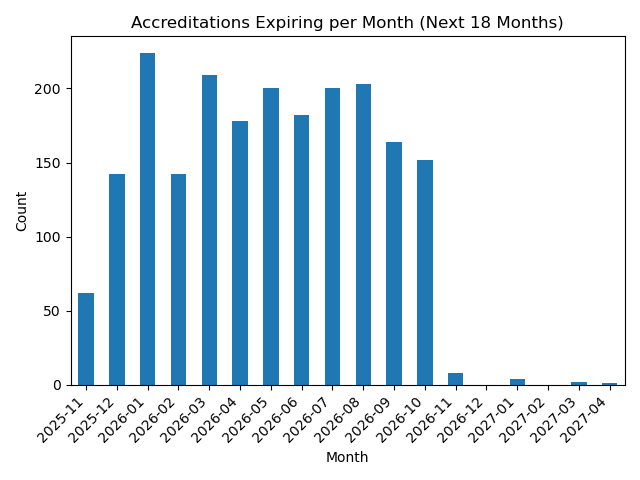
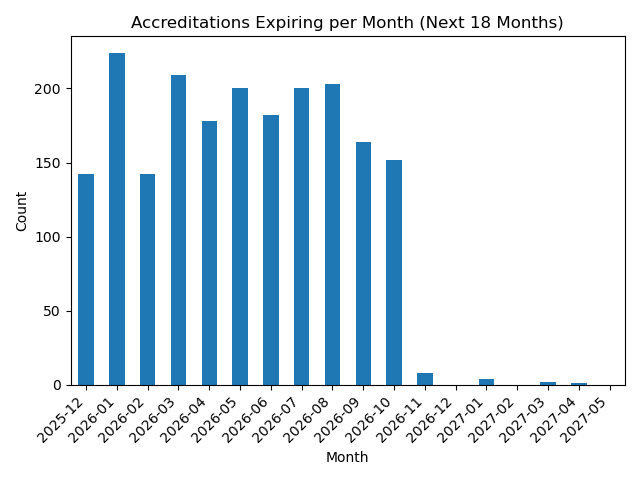
Updated ROI and Readme

diff --git a/ROI.py b/ROI.py
@@ -1,0 +1,129 @@
+# Simple ROI Model (Kallidus LMS) - Appendix ROI-1
+
+# 1) COSTS (from business report)
+# -------------------
+year1_cost = 127493.35          # Total Year 1 cost (software + project staff)
+year2_cost = 24999.35           # Ongoing licence cost
+year3_cost = 24999.35           # Ongoing licence cost
+
+# how Year 1 was built
+sandbox_site = 5500.00
+additional_licences = 1978.00
+kallidus_licences = 24999.35
+project_staff = 95016.00
+# (These add up to the Year 1 cost)
+check_year1 = sandbox_site + additional_licences + kallidus_licences + project_staff
+
+# -------------------
+# 2) SAVINGS (from business report)
+# -------------------
+admin_savings_full = 42000.00    # 2 admin posts removed (full saving)
+learning_pool_savings = 10000.00 # Learning Pool contract ended
+
+# Conservative savings in Year 1
+# shows a conservative Year 1 saving figure of £26,000
+year1_savings_conservative = 26000.00
+
+# Full savings for Years 2 and 3
+year2_savings_full = admin_savings_full + learning_pool_savings  # 52000
+year3_savings_full = admin_savings_full + learning_pool_savings  # 52000
+
+# -------------------
+# 3) CHOOSE SAVINGS SCENARIO
+# -------------------
+use_conservative_year1 = True
+
+if use_conservative_year1:
+    year1_savings = year1_savings_conservative
+else:
+    year1_savings = admin_savings_full + learning_pool_savings  # 52000
+
+year2_savings = year2_savings_full
+year3_savings = year3_savings_full
+
+# -------------------
+# 4) NET IMPACT PER YEAR (Savings - Costs)
+# -------------------
+year1_net = year1_savings - year1_cost
+year2_net = year2_savings - year2_cost
+year3_net = year3_savings - year3_cost
+
+# -------------------
+# 5) CUMULATIVE CASHFLOW (to find break-even)
+# -------------------
+cumulative = 0.0
+cumulative_list = []
+
+for net in [year1_net, year2_net, year3_net]:
+    cumulative += net
+    cumulative_list.append(cumulative)
+
+# -------------------
+# 6) SIMPLE PAYBACK CALCULATION
+# -------------------
+# If cumulative becomes positive, estimate when it breaks even (roughly)
+payback_text = "Not achieved within 3 years"
+if cumulative_list[0] >= 0:
+    payback_text = "Break-even achieved within Year 1"
+elif cumulative_list[1] >= 0:
+    # Break-even occurs during Year 2
+    amount_left_after_year1 = abs(cumulative_list[0])
+    payback_fraction_year2 = amount_left_after_year1 / year2_net
+    payback_text = f"Break-even achieved in Year 2 after ~{payback_fraction_year2:.2f} of the year"
+elif cumulative_list[2] >= 0:
+    # Break-even occurs during Year 3
+    amount_left_after_year2 = abs(cumulative_list[1])
+    payback_fraction_year3 = amount_left_after_year2 / year3_net
+    payback_text = f"Break-even achieved in Year 3 after ~{payback_fraction_year3:.2f} of the year"
+
+# -------------------
+# 7) OPTIONAL: 5-YEAR NPV @ 3.5% (simple)
+# -------------------
+discount_rate = 0.035
+
+# Extend years 4 and 5 assuming ongoing costs and ongoing savings continue
+year4_cost = year2_cost
+year5_cost = year2_cost
+year4_savings = year2_savings
+year5_savings = year2_savings
+
+cashflows_5yr = [
+    year1_savings - year1_cost,
+    year2_savings - year2_cost,
+    year3_savings - year3_cost,
+    year4_savings - year4_cost,
+    year5_savings - year5_cost
+]
+
+npv = 0.0
+for year_number, cashflow in enumerate(cashflows_5yr, start=1):
+    npv += cashflow / ((1 + discount_rate) ** year_number)
+
+# -------------------
+# 8) PRINT RESULTS (simple summary)
+# -------------------
+print("---- SIMPLE ROI SUMMARY (KALLIDUS) ----")
+print(f"Year 1 cost check (components): £{check_year1:,.2f} (should match £{year1_cost:,.2f})")
+print()
+
+print("Scenario:")
+print(" - Conservative Year 1 savings used?" , use_conservative_year1)
+print()
+
+print("Net impact (Savings - Costs):")
+print(f" Year 1: £{year1_net:,.2f}")
+print(f" Year 2: £{year2_net:,.2f}")
+print(f" Year 3: £{year3_net:,.2f}")
+print()
+
+print("Cumulative net impact:")
+print(f" End of Year 1: £{cumulative_list[0]:,.2f}")
+print(f" End of Year 2: £{cumulative_list[1]:,.2f}")
+print(f" End of Year 3: £{cumulative_list[2]:,.2f}")
+print()
+
+print("Payback / Break-even:")
+print(" ", payback_text)
+print()
+
+print(f"5-Year NPV @ {discount_rate*100:.1f}%: £{npv:,.2f}")

diff --git a/README.md b/README.md
@@ -1,0 +1,80 @@
+README — Accreditation Expiry, Risk Analysis and ROI Modelling
+Overview
+I created this set of Python scripts to support data-driven decision making for the implementation of the Kallidus Learning Management System (LMS). The purpose of this work is to understand training compliance risk, future accreditation expiry trends, and the financial return on investment (ROI) associated with moving to a centralised, automated LMS.
+The analysis focuses on accreditation expiry data (including PPST and First Aid), identifies which skills present the greatest operational risk, and quantifies the financial benefits of the system using a simple and transparent ROI model. All scripts are intentionally written at a clear, low-complexity level to ensure transparency and auditability.
+
+Files in this :
+DT603.py
+This is the main analysis script. It:
+
+- Loads accreditation data from data (6).xlsx
+- Cleans and validates expiry dates
+- Projects accreditation expiries over the next 18 months
+- Produces monthly expiry counts
+- Breaks expiry data down by accreditation title
+- Identifies PPST-related accreditations
+- Generates visual outputs (charts)
+- Produces a simple linear trend forecast beyond known expiry dates
+  regression.py
+  This script performs a simple linear regression analysis on monthly expiry data to identify which accreditation is increasing fastest over time. It:
+- Loads Monthly_expiring_by_title.csv
+- Runs a separate regression for each accreditation
+- Calculates slope, intercept and R² values
+- Ranks accreditations by risk
+- Identifies the highest-risk accreditation
+- Plots actual values against the regression trend line
+  ROI.py
+  This script models the return on investment of the LMS implementation. It:
+- Uses real project costs and savings from the business case
+- Calculates yearly net impact
+- Produces a cumulative cashflow view
+- Estimates break-even timing
+- Includes a simple 5-year NPV calculation at a 3.5% discount rate
+- Allows conservative or full savings assumptions to be tested
+  data (6).xlsx
+  The source data file containing accreditation records exported from operational systems. This includes:
+- Accreditation titles
+- Accreditation expiry dates
+- Accreditation status information
+- Monthly_expiring_by_title.csv
+- An intermediate output file generated by DT603.py, used by regression.py to analyse risk trends by accreditation type.
+  Accreditation outputs/
+  A folder containing all generated outputs, including:
+- monthly_expiring_totals.csv
+- monthly_expiring_by_title.csv
+- ppst_monthly_expiring.csv
+- Forecast files
+- PNG charts showing trends and risk
+- Requirements
+  These scripts require the following Python libraries:
+  pip install pandas numpy matplotlib openpyxl scikit-learn
+  How to run the analysis
+  Step 1 — Run the expiry and projection analysis
+  python DT603.py
+  This will:
+- Read data (6).xlsx
+- Generate all expiry projections
+- Save CSV files and charts into the Accreditation outputs folder
+- Step 2 — Run the regression risk analysis
+  python regression.py
+  This will:
+- Load Monthly_expiring_by_title.csv
+- Rank accreditations by trend risk
+- Identify the highest-risk accreditation
+- Display a regression chart
+  Step 3 — Run the ROI model
+  python ROI.py
+  This will:
+- Calculate net impact per year
+- Show cumulative financial benefit
+- Estimate break-even point
+- Output a simple 5-year NPV figure
+- What the outputs show (plain English)
+  ROI outputs demonstrate that the LMS delivers financial benefit and supports strategic investment decisions
+
+Data quality and limitations
+
+- Rows with invalid or missing expiry dates are excluded from analysis.
+- Forecasting uses a simple linear trend, not advanced time-series models.
+- Regression analysis assumes linear growth for transparency and interpretability.
+- ROI modelling uses conservative assumptions aligned with the business case.
